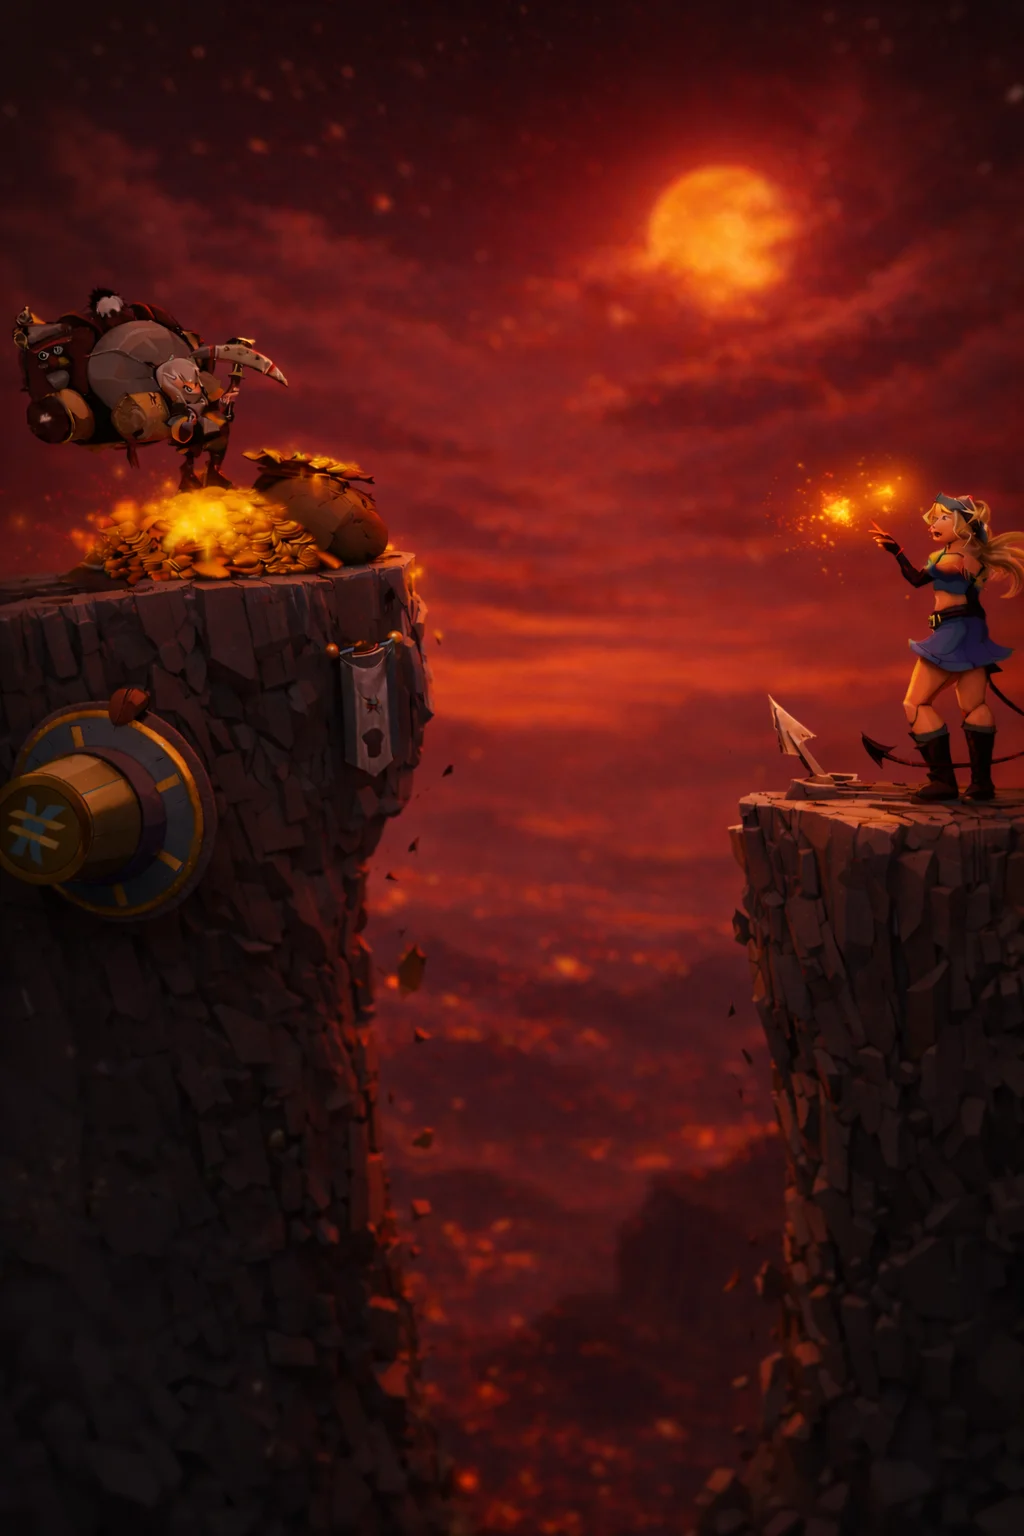
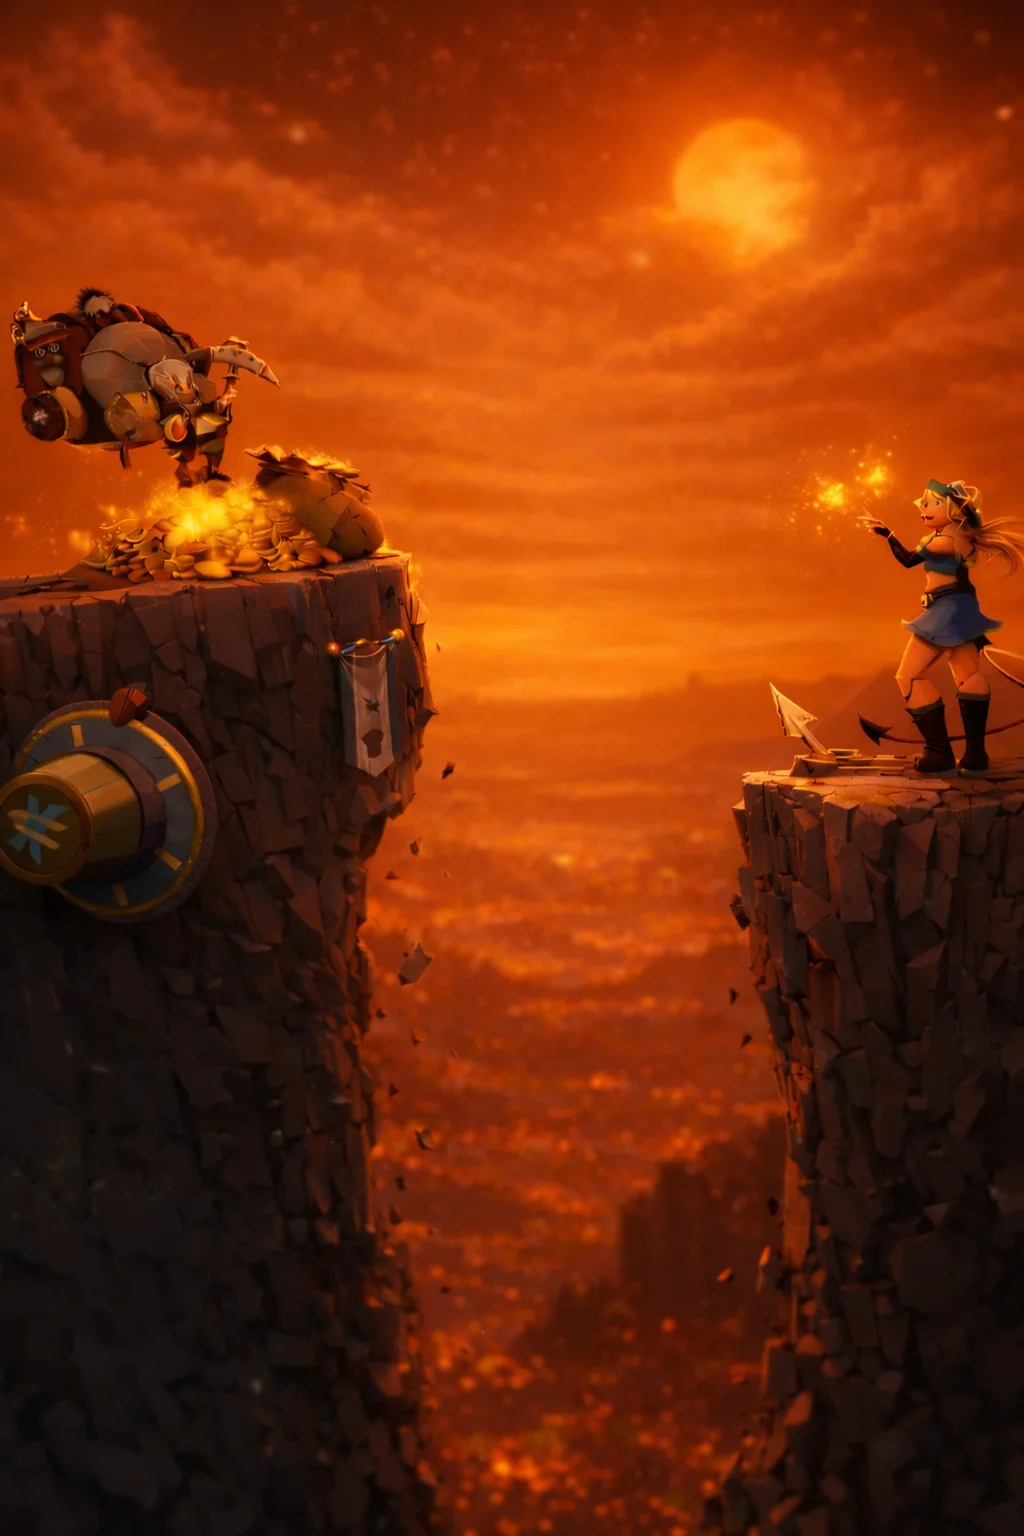
feat: update Silhouette theme colors and background images
Use accent color for victory modal heading, share button, and reopen
button instead of green. Use accent-contrast for button text. Replace
desktop and mobile background images.

diff --git a/src/components/Silhouette/SilhouetteVictory.module.css b/src/components/Silhouette/SilhouetteVictory.module.css
@@ -49,7 +49,7 @@
 .modal h2 {
 	font-size: 1.6rem;
 	margin-bottom: 12px;
-	color: var(--correct);
+	color: var(--accent);
 }
 
 .monsterImg {
@@ -88,8 +88,8 @@
 
 .shareBtn {
 	padding: 10px 32px;
-	background: var(--correct);
-	color: white;
+	background: var(--accent);
+	color: var(--accent-contrast);
 	border: none;
 	border-radius: 8px;
 	font-size: 1rem;

diff --git a/src/components/Silhouette/Game.module.css b/src/components/Silhouette/Game.module.css
@@ -46,8 +46,8 @@
 .reopenBtn {
 	align-self: center;
 	padding: 10px 32px;
-	background: var(--correct);
-	color: white;
+	background: var(--accent);
+	color: var(--accent-contrast);
 	border: none;
 	border-radius: 8px;
 	font-size: 1rem;
